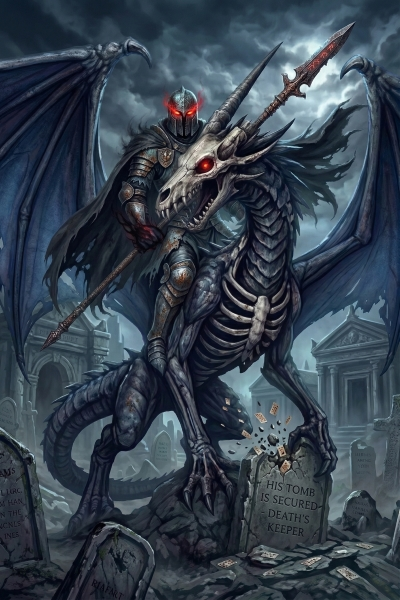
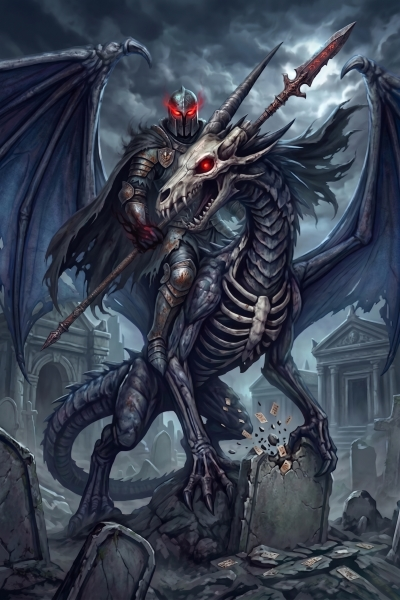
5/16 高難易度メニュー修正 大二郎

diff --git a/src/utils/constants/cards.js b/src/utils/constants/cards.js
@@ -906,6 +906,16 @@ export const CARD_MASTER = [
       '冷たい鋼の鎖帷子を纏い、闇夜を斬り裂く一条の光。神の教えを胸に刻み、冒涜者たちを容赦なく浄化する、悪魔にとって最も恐るべき裁きの代行者。',
   },
   {
+    id: 'specter',
+    name: '魂の徴税人',
+    rarity: 2,
+    power: 7,
+    skills: [{ id: 'takeover' }, { id: 'pierce' }, { id: 'extort', value: 2 }],
+    voiceCategory: 'undead',
+    flavor:
+      '慈悲はない。情状酌量もない。冥府の帳簿の帳尻を合わせるため、それは今日も無作為に魂を削り取っていく。',
+  },
+  {
     id: 'bat',
     name: '吸血コウモリ',
     rarity: 2,
@@ -928,16 +938,6 @@ export const CARD_MASTER = [
     voiceCategory: 'giant',
     flavor:
       '見捨てられた街の地下深くに眠る禁断の造物。動き出せば、その怪力で全てを粉砕する。',
-  },
-  {
-    id: 'specter',
-    name: '魂の徴税人',
-    rarity: 2,
-    power: 4,
-    skills: [{ id: 'pierce' }, { id: 'extort', value: 2 }],
-    voiceCategory: 'undead',
-    flavor:
-      '慈悲はない。情状酌量もない。冥府の帳簿の帳尻を合わせるため、それは今日も無作為に魂を削り取っていく。',
   },
   {
     id: 'plaguedoctor',
